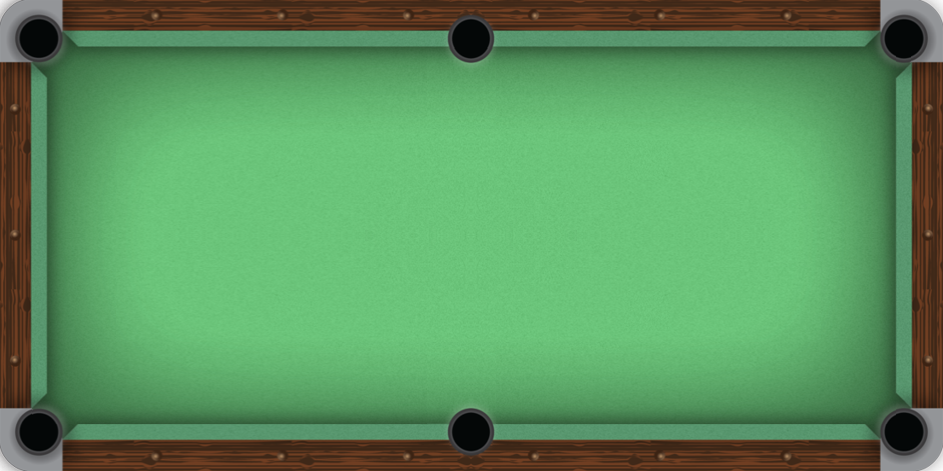
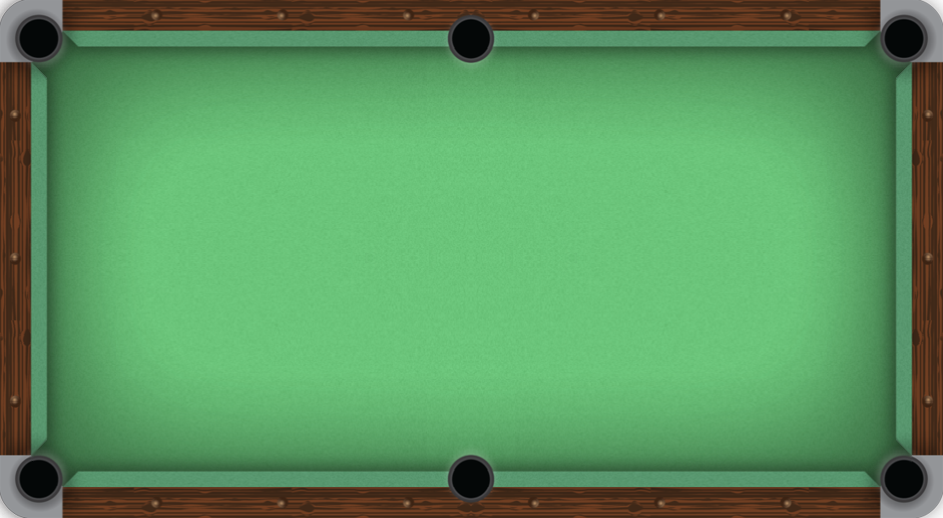
...

diff --git a/LPOOL Server-core/src/lpool/logic/Table.java b/LPOOL Server-core/src/lpool/logic/Table.java
@@ -5,6 +5,7 @@ import com.badlogic.gdx.files.FileHandle;
 import com.badlogic.gdx.physics.box2d.Body;
 import com.badlogic.gdx.physics.box2d.BodyDef;
 import com.badlogic.gdx.physics.box2d.BodyDef.BodyType;
+import com.badlogic.gdx.physics.box2d.CircleShape;
 import com.badlogic.gdx.physics.box2d.FixtureDef;
 import com.badlogic.gdx.physics.box2d.World;
 
@@ -13,14 +14,21 @@ public class Table {
 	public static final float border = 0.125f;
 	public static final float height = 1.1f + 2 * border;
 	public static final float width = (height - 2 * border) * 2 + 2 * border;
+	public static final float holeOffset = border / 6;
+	public static final float holeRadius = 0.1f;
+	public static final int numHoles = 6;
 	
 	private Body body;
+	private Body[] holes = new Body[numHoles];
 	
 	public Table(World world) {
-		float rest = 0.5f;
-		
 		BodyEditorLoader loader = new BodyEditorLoader(Gdx.files.internal("lpool.json"));
 		
+		createTable(world, loader);
+	}
+	
+	private void createTable(World world, BodyEditorLoader loader)
+	{
 		// 1. Create a BodyDef, as usual.
 	    BodyDef bd = new BodyDef();
 	    bd.position.set(0, 0);
@@ -29,7 +37,7 @@ public class Table {
 	    // 2. Create a FixtureDef, as usual.
 	    FixtureDef fd = new FixtureDef();
 	    fd.density = 5f;
-	    fd.restitution = rest;
+	    fd.restitution = 0.5f;
 		fd.filter.categoryBits = cat;
 		fd.filter.maskBits = Ball.cat;
 	 
@@ -38,6 +46,21 @@ public class Table {
 	 
 	    // 4. Create the body fixture automatically by using the loader.
 	    loader.attachFixture(body, "table", fd, width);
+	}
+	
+	private void createHole(World world)
+	{
+		BodyDef bd = new BodyDef();
+		bd.position.set(0, 0);
+		bd.type = BodyType.StaticBody;
+		
+		FixtureDef fd = new FixtureDef();
+		CircleShape cs = new CircleShape();
+		fd.shape = cs;
+		
+		holes[0] = world.createBody(bd);
+		
+		holes[0].createFixture(cs, 1f);
 	}
 
 }

diff --git a/LPOOL Server-core/src/lpool/gdx/MatchScene.java b/LPOOL Server-core/src/lpool/gdx/MatchScene.java
@@ -53,7 +53,7 @@ public class MatchScene implements Screen, Observer{
 
 	public MatchScene(lpool.logic.Game game, int width, int height, String qr_dir)
 	{
-		camera = new OrthographicCamera(Table.width, Table.width * Gdx.graphics.getHeight() / Gdx.graphics.getWidth());
+		camera = new OrthographicCamera(Table.width, Table.width * height / width);
 		camera.position.set(new Vector2(Table.width / 2, Table.height / 2), 0);
 		camera.update();
 		
@@ -143,6 +143,9 @@ public class MatchScene implements Screen, Observer{
 
 	@Override
 	public void resize(int width, int height) {
+		camera.viewportWidth = Table.width;
+		camera.viewportHeight = Table.width * height / width;
+		camera.update();
 	}
 
 	@Override
@@ -161,7 +164,6 @@ public class MatchScene implements Screen, Observer{
 	public void update(Observable o, Object obj) {
 		Contact contact = (Contact)obj;
 		Vector2 impactVelocity = contact.getFixtureA().getBody().getLinearVelocity().cpy().sub(contact.getFixtureB().getBody().getLinearVelocity());
-		System.out.println("Collision: " + impactVelocity.len());
 		Sounds.getInstance().getBallBallCollision().play(impactVelocity.len2());
 	}
 }

diff --git a/LPOOL Server-core/src/lpool/gdx/BallModel.java b/LPOOL Server-core/src/lpool/gdx/BallModel.java
@@ -18,7 +18,7 @@ import com.badlogic.gdx.utils.JsonReader;
 import com.badlogic.gdx.utils.UBJsonReader;
 
 public class BallModel {
-	private static final float scale = 0.027f;
+	private static final float scale = 0.025f;
 	private static final Vector3 scaleVec = new Vector3(scale, scale, scale);
 	private int number;
 	private Model model;
@@ -31,8 +31,8 @@ public class BallModel {
 
 	public ModelInstance instanciateModel(Vector2 position, Quaternion rotation)
 	{
-		ModelInstance ballModelInstance = new ModelInstance(model, position.x, position.y, lpool.logic.Ball.radius / 2);
-		ballModelInstance.transform.set(new Vector3(position.x, position.y, lpool.logic.Ball.radius / 2), rotation, scaleVec);
+		ModelInstance ballModelInstance = new ModelInstance(model, position.x, position.y, 0);
+		ballModelInstance.transform.set(new Vector3(position.x, position.y, 0), rotation, scaleVec);
 		return ballModelInstance;
 	}
 

diff --git a/LPOOL Server-desktop/src/lpool/gdx/desktop/DesktopLauncher.java b/LPOOL Server-desktop/src/lpool/gdx/desktop/DesktopLauncher.java
@@ -1,9 +1,10 @@
 package lpool.gdx.desktop;
 
+import org.lwjgl.LWJGLException;
+import org.lwjgl.opengl.Display;
 
 import lpool.gdx.GameProject;
 
-import com.badlogic.gdx.Gdx;
 import com.badlogic.gdx.backends.lwjgl.LwjglApplication;
 import com.badlogic.gdx.backends.lwjgl.LwjglApplicationConfiguration;
 
@@ -12,7 +13,7 @@ public class DesktopLauncher {
 	public static void main (String[] arg) {
 		
 		LwjglApplicationConfiguration config = new LwjglApplicationConfiguration();
-		config.fullscreen = true;
+		config.fullscreen = false;
 		new LwjglApplication(new GameProject(), config);
 	}
 }

diff --git a/LPOOL Server-core/src/lpool/logic/Ball.java b/LPOOL Server-core/src/lpool/logic/Ball.java
@@ -82,7 +82,7 @@ public class Ball {
 		{
 			Vector3 velocity = new Vector3(body.getLinearVelocity().x, body.getLinearVelocity().y, 0);
 			Vector3 rotatingAxis = velocity.cpy().nor().crs(Vector3.Z);
-			float rotationAmount = 40 * velocity.len() * deltaT / radius; // TODO Find out why we need to multiply by a value around 40
+			float rotationAmount = 45 * velocity.len() * deltaT / radius; // TODO Find out why we need to multiply by a value around 40
 			Quaternion dRotation = new Quaternion(rotatingAxis, rotationAmount);
 			rotation.mulLeft(dRotation);
 		}

diff --git a/LPOOL Server-core/src/lpool/logic/ObservableCollision.java b/LPOOL Server-core/src/lpool/logic/ObservableCollision.java
@@ -20,19 +20,13 @@ public class ObservableCollision extends Observable implements ContactListener {
 
 	@Override
 	public void endContact(Contact contact) {
-		// TODO Auto-generated method stub
-		
 	}
 
 	@Override
 	public void postSolve(Contact contact, ContactImpulse impulse) {
-		// TODO Auto-generated method stub
-		
 	}
 
 	@Override
 	public void preSolve(Contact contact, Manifold oldManifold) {
-		// TODO Auto-generated method stub
-		
 	}
 }

diff --git a/LPOOL Server-core/src/lpool/network/EventChecker.java b/LPOOL Server-core/src/lpool/network/EventChecker.java
@@ -1,7 +1,5 @@
 package lpool.network;
 
-import java.net.DatagramPacket;
-
 public abstract class EventChecker {
 	protected Network network;
 

diff --git a/LPOOL Server-core/src/lpool/gdx/GameProject.java b/LPOOL Server-core/src/lpool/gdx/GameProject.java
@@ -1,7 +1,5 @@
 package lpool.gdx;
 
-import lpool.gdx.assets.Sounds;
-
 import java.net.Inet4Address;
 
 import lpool.zxing.QRGenerator;
